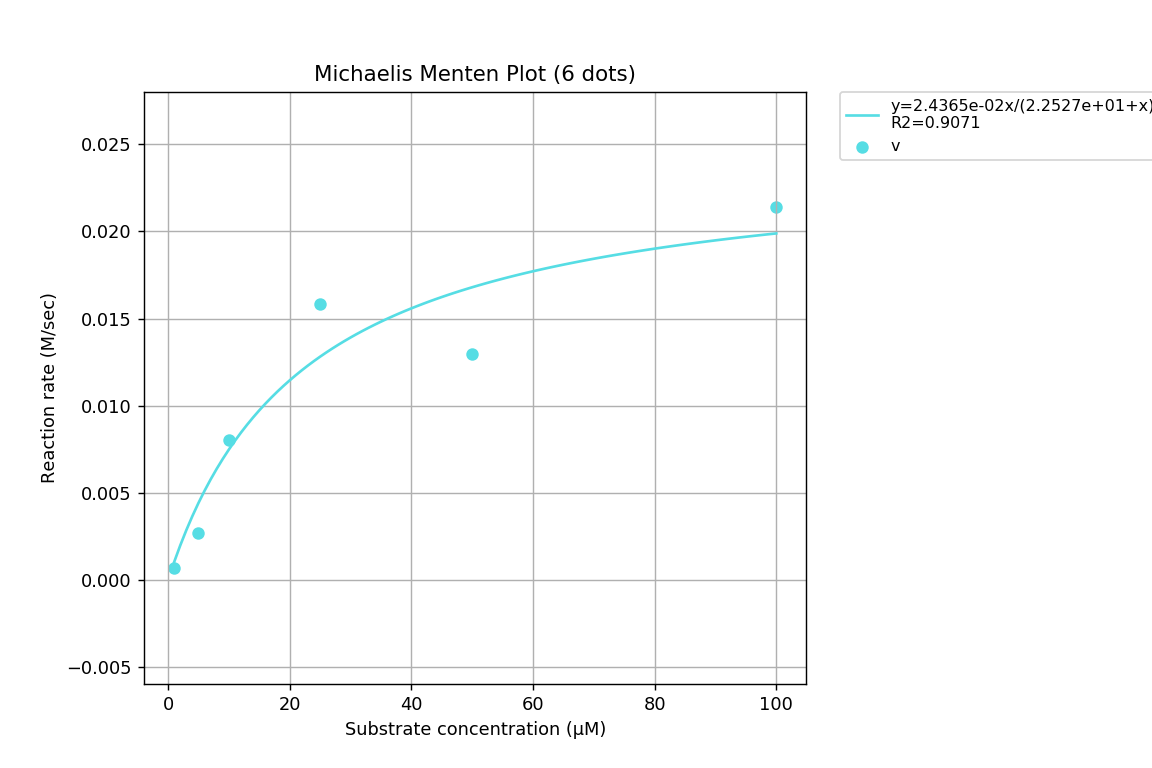
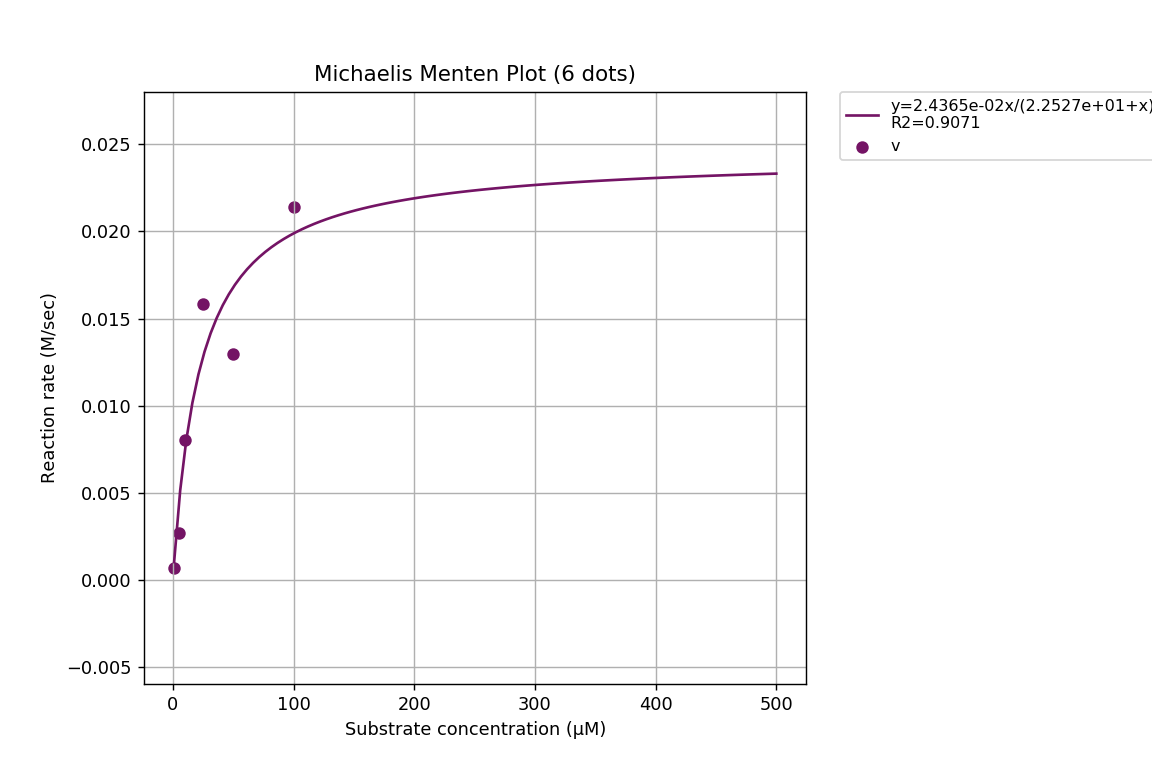
とりあえずミカエリスメンテンを２通り別々に出すことができた

diff --git a/plot_master2.py b/plot_master2.py
@@ -28,7 +28,8 @@ def generate_random_color():
 fitting_types = (
     'proportion',
     'liner',
-    'Michaelis Menten'
+    'Michaelis Menten 6',
+    'Michaelis Menten 4',
     )
 
 def mm(x,a,b):
@@ -52,6 +53,8 @@ class Data:
             self.fit_values = np.polyfit(x,self.values,1)
         elif self.fit_type == fitting_types[2]:
             self.fit_values,cov = curve_fit(mm,x,self.values)
+        elif self.fit_type == fitting_types[3]:
+            self.fit_values,cov = curve_fit(mm,x[:4],self.values[:4])
 
 class Graph_master:
     # グラフの描画に関するクラスはこちら
@@ -70,8 +73,9 @@ class Graph_master:
         self.output_path = 'output/' + args[3]
         self.sig_dig = int(args[4])
 
-    def plot_fitting(self,x,y):
+    def plot_fitting(self,x,y,max_x=None):
         y.fitting(x.values)
+
         if y.fit_type == fitting_types[0]:
             a = y.fit_values
             y1 = a * x.values
@@ -98,9 +102,12 @@ class Graph_master:
             text = equation + '\n' + text_corr
             plt.plot(x.values,y1,c=y.color,label=text)
 
-        elif y.fit_type == fitting_types[2]:
+        elif y.fit_type in fitting_types[2:4]:
             a,b = y.fit_values
-            x_line = np.linspace(min(x.values),max(x.values),100)
+            if max_x:
+                x_line = np.linspace(min(x.values),max_x,100)
+            else:
+                x_line = np.linspace(min(x.values),max(x.values),100)
             y_line = a * x_line / (b + x_line)
             y1 = a * x.values / (b + x.values)
             pre_equation = 'y={:.' + str(self.sig_dig) + 'e}x/({:.' + str(self.sig_dig) + 'e}+x)'
@@ -116,26 +123,29 @@ class Graph_master:
         else:
             print("No Approximate Curve")
 
-    def make_graph(self,var_x,ys):
+    def make_graph(self,var_x,ys,input_mode=None,max_x=None):
         plt.figure(figsize=(9,6),dpi=128)
         plt.title(self.title)
         plt.xlabel(self.xlabel)
         plt.ylabel(self.ylabel)
 
         # 散布図と近似曲線のプロット
-        input_text = 'もし比例の近似直線が欲しいなら1を、線形の近似直線が欲しいなら2を、'
-        input_text += 'ミカエリス・メンテン式の曲線で近似する場合は3を、'
-        input_text += '近似直線が不要な場合はそれ以外の入力をしてください\n>> '
-        ans = input(input_text)
+        if not input_mode:
+            input_text = 'もし比例の近似直線が欲しいなら1を、線形の近似直線が欲しいなら2を、'
+            input_text += 'ミカエリス・メンテン式の曲線で近似する場合は3を、'
+            input_text += '近似直線が不要な場合はそれ以外の入力をしてください\n>> '
+            input_mode = input(input_text)
         for var_y in ys:
             plt.scatter(var_x.values,var_y.values,label=var_y.label,c=var_y.color)
-            if ans ==  "1":
+            if input_mode ==  "1":
                 var_y.fit_type = fitting_types[0]
-            elif ans == "2":
+            elif input_mode == "2":
                 var_y.fit_type = fitting_types[1]
-            elif ans == "3":
+            elif input_mode == "3":
                 var_y.fit_type = fitting_types[2]
-            self.plot_fitting(var_x,var_y)
+            elif input_mode == "4":
+                var_y.fit_type = fitting_types[3]
+            self.plot_fitting(var_x,var_y,max_x)
 
         # グラフの外観をいい感じに調節しているのはここ
         plt.legend(bbox_to_anchor=(1.05, 1), loc='upper left', borderaxespad=0, fontsize=9)

diff --git a/replace_kaleida.py b/replace_kaleida.py
@@ -31,26 +31,6 @@ class Plot_data:
         self.k_m = None
         self.k2 = None
 
-def plot_and_save(args,x,y):
-    import matplotlib.pyplot as plt
-    import plot_master2 as pm2
-
-    x = pm2.Data(x)
-    y = ["v"] + list(y)
-    y = pm2.Data(y)
-    ys = [y]
-    plt.ylim(min(y.values),max(y.values))
-    graph = pm2.Graph_master(args)
-    graph.make_graph(x,ys)
-    plt.savefig(graph.output_path)
-    data = Plot_data()
-    for y in ys:
-        data.v_max = y.fit_values[0]
-        data.k_m = y.fit_values[1]
-        data.k_cat = data.v_max / (4.0*10**-9)
-        data.k2 = data.k_cat / data.k_m
-    return data
-
 def main():
     path = get_file_name()
     data = get_array_from_xlsx(path)
@@ -83,7 +63,7 @@ def main():
 
     # 吸光度の変化をプロットする
     graph = pm2.Graph_master(args)
-    graph.make_graph(x,box)
+    graph.make_graph(x,box,input_mode="2")
     plt.savefig(graph.output_path)
 
     # 反応初速度を求める
@@ -107,7 +87,22 @@ def main():
     args = [title,xlabel,ylabel,output_path,sig_dig]
 
     # プロット
-    data_array.append(plot_and_save(args,array_s,v0))
+    x = pm2.Data(array_s)
+    y = ["v"] + list(v0)
+    y = pm2.Data(y)
+    ys = [y]
+    plt.ylim(min(y.values),max(y.values))
+    graph = pm2.Graph_master(args)
+    graph.make_graph(x,ys,input_mode="3",max_x=500)
+    plt.savefig(graph.output_path)
+    data = Plot_data()
+    for y in ys:
+        data.v_max = y.fit_values[0]
+        data.k_m = y.fit_values[1]
+        data.k_cat = data.v_max
+        data.k2 = data.k_cat / data.k_m
+
+    data_array.append(data)
 
     # 4点でミカエリスメンテン
     # 変数の定義
@@ -118,11 +113,23 @@ def main():
     sig_dig = '4'
     args = [title,xlabel,ylabel,output_path,sig_dig]
 
-
-    print("v0",v0)
-    print("array_s",array_s)
     # プロット
-    data_array.append(plot_and_save(args,array_s[:5],v0[:4]))
+    x = pm2.Data(array_s[:5])
+    y = ["v"] + list(v0[:4])
+    y = pm2.Data(y)
+    ys = [y]
+    plt.ylim(min(y.values),max(y.values))
+    graph = pm2.Graph_master(args)
+    graph.make_graph(x,ys,input_mode="4",max_x=500)
+    plt.savefig(graph.output_path)
+    data = Plot_data()
+    for y in ys:
+        data.v_max = y.fit_values[0]
+        data.k_m = y.fit_values[1]
+        data.k_cat = data.v_max
+        data.k2 = data.k_cat / data.k_m
+
+    data_array.append(data)
 
 
 if __name__ == "__main__":
